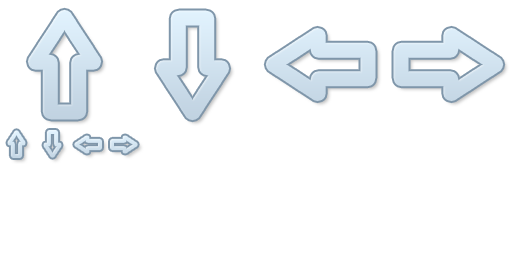
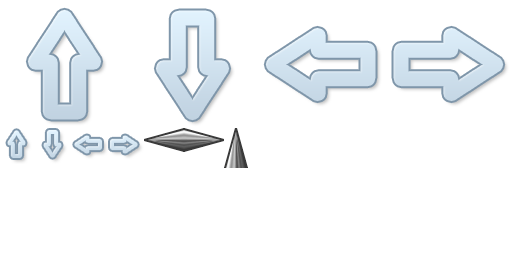
[146] using multiple polygons - ball in level 7 can now die

Changed region(s): [[0.2812, 0.5, 0.5, 0.6562]]

diff --git a/Source/FirstParty/AllInOneSolution/AllInOneSolution/Core/model/Level_LoadingPart.cpp b/Source/FirstParty/AllInOneSolution/AllInOneSolution/Core/model/Level_LoadingPart.cpp
@@ -99,7 +99,7 @@ void Level::load()
     tinyxml2::XMLElement* gravity = world->FirstChildElement("gravity");
     m_defaultGravity = b2Vec2(gravity->FloatAttribute("x"), gravity->FloatAttribute("y"));
     m_world.SetGravity(m_defaultGravity);
-    m_world.SetContactListener(m_contactListener.get());
+    m_world.SetContactListener(&m_contactListener);
 
     // setup scrollview
     m_scrollView.setLevelSize(sf::Vector2f(getWidth(), getHeight()));
@@ -261,9 +261,12 @@ std::unique_ptr<Entity> Level::parseEntity(
     if(physic != nullptr)
     {
         // Shape template exists
-        if(physic->Attribute("shape") != nullptr &&
-            templates.shapes.find(std::string(physic->Attribute("shape"))) != end(templates.shapes))
-            shape = templates.shapes.find(std::string(physic->Attribute("shape")))->second;
+        if(physic->Attribute("shape") != nullptr)
+        {
+            std::string name(physic->Attribute("shape"));
+            if(templates.shapes.find(name) != end(templates.shapes))
+                shape = templates.shapes.find(std::string(physic->Attribute("shape")))->second;
+        }
         // Physics doesn't use a template
         else
             shape = physic->FirstChildElement("shape");
@@ -390,11 +393,11 @@ std::unique_ptr<Entity> Level::createEntity(
         bodyDef.angularDamping = element->BoolAttribute("angularDamping");
         LevelFileLoader::parseKinematics(element, entity.get(), this, &templates.functions);
 
+        std::vector<std::unique_ptr<b2Shape>> shapes;
         // Load shape
         if(std::string(shape->Attribute("type")) == "polygon") // Load polygon
         {
             std::vector<b2Vec2> vertices;
-
             // Iterate over the vertices
             for(tinyxml2::XMLElement* vertexIterator = shape->FirstChildElement("vertex");
                 vertexIterator != nullptr; vertexIterator = vertexIterator->NextSiblingElement("vertex"))
@@ -402,28 +405,46 @@ std::unique_ptr<Entity> Level::createEntity(
                 vertices.push_back(b2Vec2(utility::toMeter(vertexIterator->FloatAttribute("x")),
                     utility::toMeter(vertexIterator->FloatAttribute("y"))));
             }
-
             // Construct the b2Shape
             std::unique_ptr<b2PolygonShape> ps(new b2PolygonShape);
             ps->Set(vertices.data(), vertices.size());
-            m_shapes.push_back(std::move(ps));
+            shapes.push_back(std::move(ps));
+        }
+        else if(std::string(shape->Attribute("type")) == "complex_polygon") // Load polygon
+        {
+            for(auto polyIterator = shape->FirstChildElement("polygon");
+                polyIterator != nullptr; polyIterator = polyIterator->NextSiblingElement("polygon"))
+            {
+                std::vector<b2Vec2> vertices;
+                // Iterate over the vertices
+                for(auto vertexIterator = polyIterator->FirstChildElement("vertex");
+                    vertexIterator != nullptr; vertexIterator = vertexIterator->NextSiblingElement("vertex"))
+                {
+                    vertices.push_back(b2Vec2(utility::toMeter(vertexIterator->FloatAttribute("x")),
+                        utility::toMeter(vertexIterator->FloatAttribute("y"))));
+                }
+                // Construct the b2Shape
+                std::unique_ptr<b2PolygonShape> ps(new b2PolygonShape);
+                ps->Set(vertices.data(), vertices.size());
+                shapes.push_back(std::move(ps));
+            }
         }
         else if(std::string(shape->Attribute("type")) == "circle") // Load circle
         {
             std::unique_ptr<b2CircleShape> cs(new b2CircleShape);
             cs->m_radius = utility::toMeter(shape->FloatAttribute("radius"));
-            m_shapes.push_back(std::move(cs));
+            shapes.push_back(std::move(cs));
         }
 
         // Load fixtures
         element = physic->FirstChildElement("fixture");
         b2FixtureDef fixtureDef;
-        fixtureDef.shape = m_shapes.back().get();
+        //fixtureDef.shape = &shapes.g m_shapes.back().get();
         fixtureDef.density = element->FloatAttribute("density");
         fixtureDef.friction = element->FloatAttribute("friction");
         fixtureDef.restitution = element->FloatAttribute("restitution");
 
-        entity->bindDefs(fixtureDef, bodyDef, &m_world);
+        entity->bindDefs(fixtureDef, shapes, bodyDef, &m_world);
     }
     
     if(auto collider = xml->FirstChildElement("onCollision"))

diff --git a/Source/FirstParty/AllInOneSolution/AllInOneSolution/Core/model/PhysicalObject.hpp b/Source/FirstParty/AllInOneSolution/AllInOneSolution/Core/model/PhysicalObject.hpp
@@ -27,9 +27,10 @@ private:
     b2Vec2 m_basePosition;
     
     b2Body* m_body;
-    b2FixtureDef m_fixtureDef;
+    std::vector<b2FixtureDef> m_fixtureDefs;
     b2BodyDef m_bodyDef;
     b2World* m_world;
+    std::vector<std::unique_ptr<b2Shape>> m_shapes;
 
     bool m_basePosChanged;
 
@@ -41,9 +42,21 @@ public:
     virtual ~PhysicalObject()
     { }
 
-    void bindDefs(b2FixtureDef fixtureDef, b2BodyDef bodyDef, b2World* world)
+    void bindDefs(
+        const b2FixtureDef& fixtureDef,
+        std::vector<std::unique_ptr<b2Shape>>& shapes,
+        const b2BodyDef& bodyDef, b2World* world)
     {
-        m_fixtureDef = fixtureDef;
+        m_shapes = std::move(shapes);
+        for(auto shape = begin(m_shapes); shape != end(m_shapes); ++shape)
+        {
+            b2FixtureDef def;
+            def.density = fixtureDef.density;
+            def.friction = fixtureDef.friction;
+            def.restitution = fixtureDef.restitution;
+            def.shape = shape->get();
+            m_fixtureDefs.push_back(def);
+        }
         m_bodyDef = bodyDef;
         m_world = world;
     }
@@ -60,7 +73,8 @@ public:
             return;
         // Create & bind body
         m_body = m_world->CreateBody(&m_bodyDef);
-        m_body->CreateFixture(&m_fixtureDef);
+        for(auto fixture = begin(m_fixtureDefs); fixture != end(m_fixtureDefs); ++fixture)
+            m_body->CreateFixture(&(*fixture));
         // Save the entity in the body for the contact listener
         m_body->SetUserData(this);
         if(m_basePosChanged)

diff --git a/Source/FirstParty/AllInOneSolution/AllInOneSolution/Core/model/Level.hpp b/Source/FirstParty/AllInOneSolution/AllInOneSolution/Core/model/Level.hpp
@@ -212,12 +212,9 @@ private:
     std::vector<std::unique_ptr<Entity>> m_entitiesToSpawn;
     std::vector<EntitySpawn> m_unspawnedEntities;
 
-    // HACK: This should be in the Entity class, but since unique_ptr sucks with VS10...
-    std::vector<std::unique_ptr<b2Shape>> m_shapes;
-
     std::unique_ptr<Background> m_background;
 
-    std::unique_ptr<ContactListener> m_contactListener;
+    ContactListener  m_contactListener;
 
     float m_timeStep;
     int m_velocityIterations;

diff --git a/Source/FirstParty/AllInOneSolution/AllInOneSolution/Core/model/Level.cpp b/Source/FirstParty/AllInOneSolution/AllInOneSolution/Core/model/Level.cpp
@@ -51,7 +51,7 @@ Level::Level(const unsigned int level, ResourceManager& resourceManager, Config&
 {
     m_world.SetAllowSleeping(false);
     m_debugDraw = false;
-    m_contactListener.reset(new ContactListener(this, this));
+    m_contactListener = ContactListener(this, this);
     load();
     m_gravityGoodie.setNormalGravity(m_world.GetGravity());
 }

diff --git a/Source/FirstParty/AllInOneSolution/AllInOneSolution/Core/State/LoadLevelState.cpp b/Source/FirstParty/AllInOneSolution/AllInOneSolution/Core/State/LoadLevelState.cpp
@@ -89,7 +89,7 @@ void LoadLevelState::loadLevel()
     m_loadingErrorMessage[0] = '\0';
     try
     {
-        m_level = std::unique_ptr<Level>(new Level(6, m_resourceManager, m_config));
+        m_level = std::unique_ptr<Level>(new Level(7, m_resourceManager, m_config));
         m_lastLevel = m_level.get();
     }
     catch(std::runtime_error e)

diff --git a/Source/FirstParty/AllInOneSolution/AllInOneSolution/Core/model/collision/ContactListener.cpp b/Source/FirstParty/AllInOneSolution/AllInOneSolution/Core/model/collision/ContactListener.cpp
@@ -7,6 +7,11 @@
 
 #include <exception>
 
+ContactListener::ContactListener()
+    : m_handler(nullptr),
+    m_filter(nullptr)
+{ }
+
 ContactListener::ContactListener(CollisionHandler* handler, CollisionFilter* filter)
     : m_handler(handler),
     m_filter(filter)

diff --git a/Source/FirstParty/AllInOneSolution/AllInOneSolution/Core/model/collision/ContactListener.hpp b/Source/FirstParty/AllInOneSolution/AllInOneSolution/Core/model/collision/ContactListener.hpp
@@ -12,6 +12,7 @@ class ContactListener : public b2ContactListener
 {
 public:
 
+    ContactListener();
     ContactListener(CollisionHandler* handler, CollisionFilter* filter);
 
     void BeginContact(b2Contact* contact);
